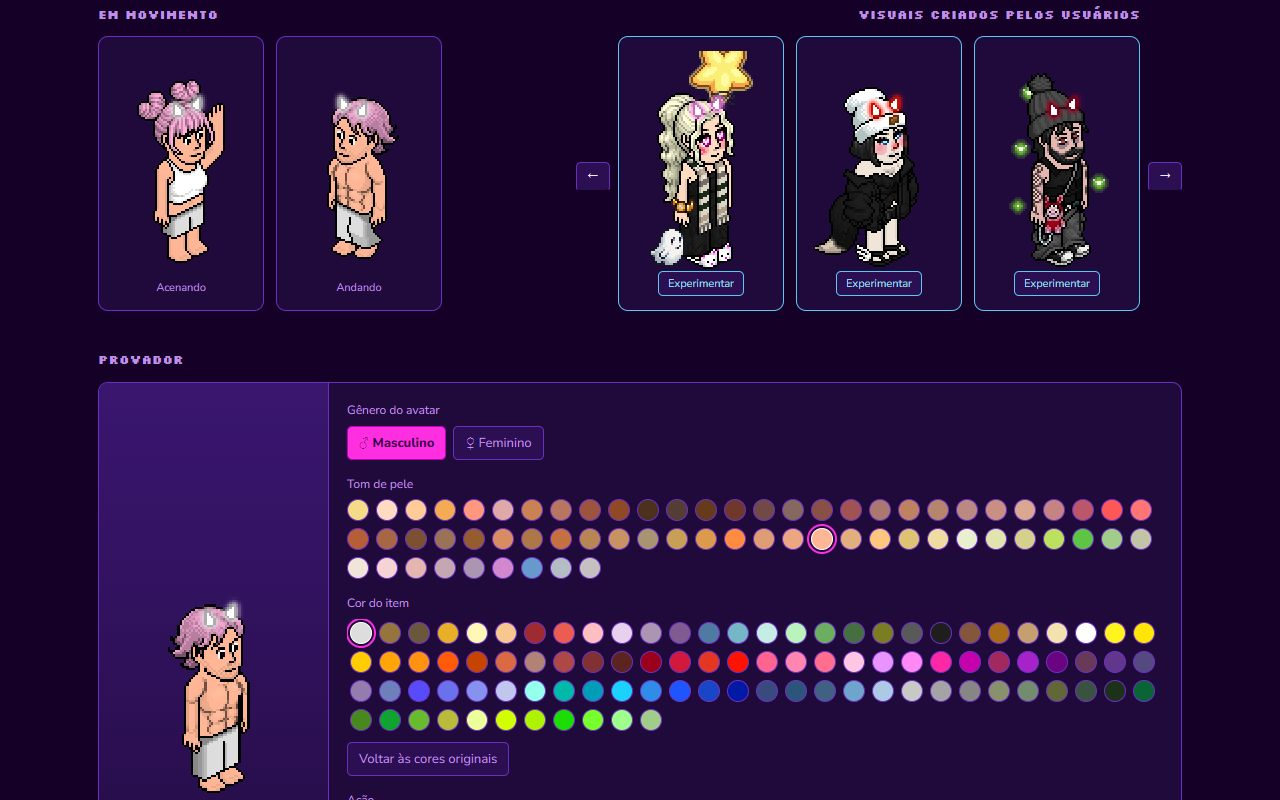
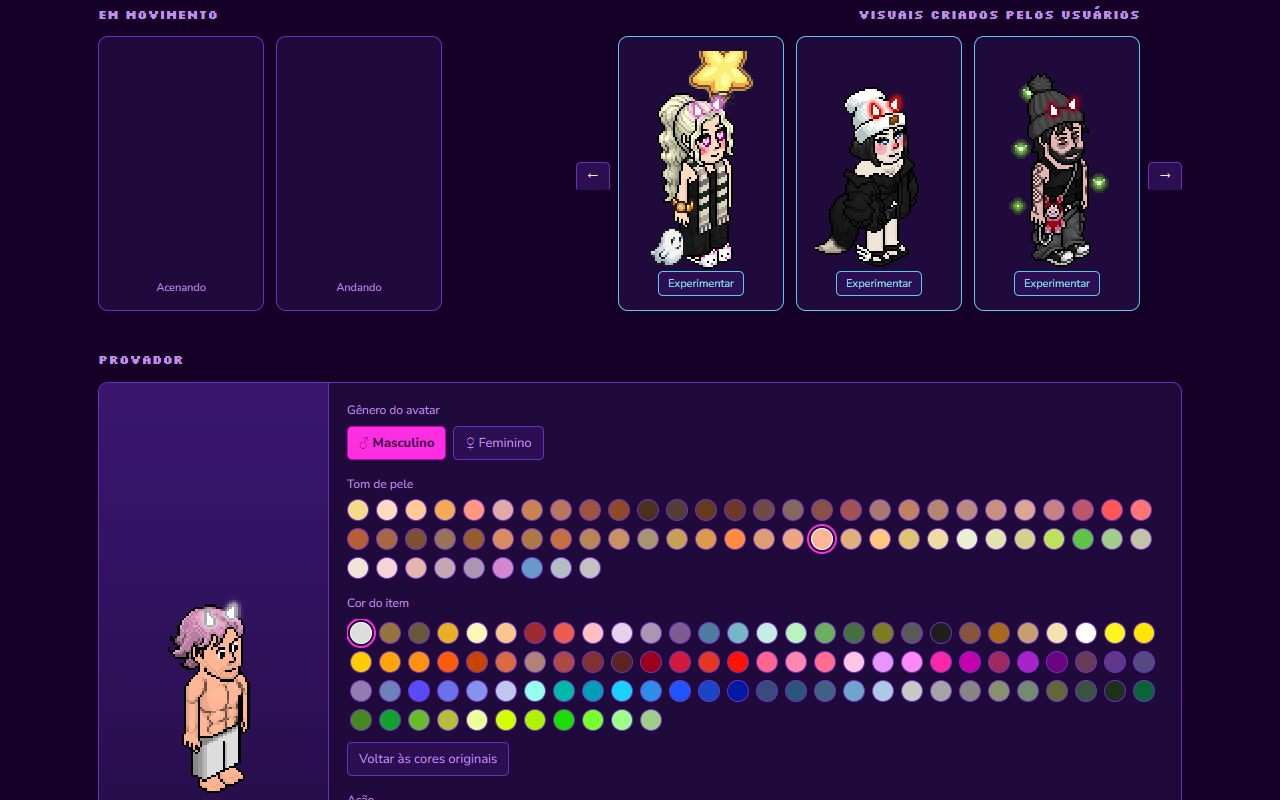
Entrada: chifres piscando no Provador e baloes subindo no Teste o balao, como no site

Changed region(s): [[0.0938, 0.0938, 0.1875, 0.3438], [0.25, 0.125, 0.3125, 0.3438]]

diff --git a/public/index.html b/public/index.html
@@ -135,6 +135,23 @@ a{color:var(--ouro)}
   animation:camaDisco 2.667s steps(32) infinite}
 @keyframes camaDisco{to{background-position:103.2258% 0}}
 @media (prefers-reduced-motion:reduce){.mobi-anim{animation:none}}
+/* Camada do tamanho do print (1280x800) por cima dele, encolhida junto com a imagem (--k, pelo script):
+   as posições abaixo são as mesmas do print. */
+.quadro{overflow:hidden}
+.camada{position:absolute;left:0;top:0;width:1280px;height:800px;transform-origin:0 0;transform:scale(var(--k,1));pointer-events:none}
+.slide .camada img{position:absolute;display:block;width:auto;height:auto;aspect-ratio:auto;object-fit:fill}
+.slide .camada .anim-avatar{width:128px;height:220px}
+/* Balões como no "Teste o balão" do site: um a cada 1,5 s, empurrando os de antes para cima, e somem juntos */
+.balao{opacity:0;animation:6.3s ease-out infinite}
+.b1{animation-name:balao1}.b2{animation-name:balao2}.b3{animation-name:balao3}
+@keyframes balao1{0%{opacity:0;transform:translateY(79px)}5.56%{transform:translateY(66px)}7.94%{opacity:1}
+  23.81%{transform:translateY(66px)}29.37%{transform:translateY(33px)}47.62%{transform:translateY(33px)}53.18%{transform:translateY(0)}
+  71.43%{opacity:1}79.37%,100%{opacity:0;transform:translateY(0)}}
+@keyframes balao2{0%,23.81%{opacity:0;transform:translateY(46px)}29.37%{transform:translateY(33px)}31.75%{opacity:1}
+  47.62%{transform:translateY(33px)}53.18%{transform:translateY(0)}71.43%{opacity:1}79.37%,100%{opacity:0;transform:translateY(0)}}
+@keyframes balao3{0%,47.62%{opacity:0;transform:translateY(13px)}53.18%{transform:translateY(0)}55.56%{opacity:1}
+  71.43%{opacity:1}79.37%,100%{opacity:0;transform:translateY(0)}}
+@media (prefers-reduced-motion:reduce){.balao{animation:none;opacity:1}}
 .slide figcaption{padding:16px 22px 20px;border-top:1px solid var(--linha)}
 .slide figcaption b{display:block;font-family:var(--pixel);font-size:14px;color:var(--ouro);margin-bottom:4px}
 .slide figcaption span{color:var(--texto);font-size:15px}
@@ -218,11 +235,20 @@ a{color:var(--ouro)}
           <figcaption><b>Mais de 1.400 mobis</b><span>Ordene pelos lançamentos, pelo preço ou pelos mais curtidos, e ache qualquer um pela busca.</span></figcaption></figure>
         <figure class="slide"><div class="quadro"><img src="/entrada/mobi-no-quarto.jpg" alt="Cama Disco animada dentro de um quarto" loading="lazy"><span class="mobi-anim" aria-hidden="true"></span></div>
           <figcaption><b>Veja o mobi no quarto</b><span>Tamanho de verdade e até a animação, do jeitinho que fica no Habbo.</span></figcaption></figure>
-        <figure class="slide"><img src="/entrada/provador.jpg" alt="Provador com avatares vestindo o item" loading="lazy">
+        <figure class="slide"><div class="quadro"><img src="/entrada/provador.jpg" alt="Provador com avatares vestindo os Chifres LED" loading="lazy">
+          <div class="camada" aria-hidden="true">
+            <img class="anim-avatar" src="/entrada/provador-acenando.png" alt="" loading="lazy" style="left:117px;top:51px">
+            <img class="anim-avatar" src="/entrada/provador-andando.png" alt="" loading="lazy" style="left:295px;top:51px">
+          </div></div>
           <figcaption><b>Provador</b><span>Experimente qualquer roupa no avatar, troque o tom de pele e as cores, ou use o seu próprio visual pelo nick.</span></figcaption></figure>
         <figure class="slide"><img src="/entrada/editor-de-visuais.jpg" alt="Editor de visuais" loading="lazy">
           <figcaption><b>Editor de Visuais</b><span>Monte combinações com peças NFT e do jogo, salve seus favoritos e veja o que a comunidade criou.</span></figcaption></figure>
-        <figure class="slide"><img src="/entrada/teste-o-balao.jpg" alt="Teste do balão de fala no quarto" loading="lazy">
+        <figure class="slide"><div class="quadro"><img src="/entrada/teste-o-balao.jpg" alt="Teste do balão de fala Origami Azul no quarto" loading="lazy">
+          <div class="camada" aria-hidden="true">
+            <img class="balao b1" src="/entrada/balao-1.png" alt="" loading="lazy" style="left:276px;top:524px">
+            <img class="balao b2" src="/entrada/balao-2.png" alt="" loading="lazy" style="left:272px;top:557px">
+            <img class="balao b3" src="/entrada/balao-3.png" alt="" loading="lazy" style="left:279px;top:590px">
+          </div></div>
           <figcaption><b>Teste o balão</b><span>Escreva uma mensagem e veja como o balão de fala aparece no quarto antes de comprar.</span></figcaption></figure>
       </div>
       <button class="seta esq" type="button" data-seta="-1" aria-label="Tela anterior">‹</button>
@@ -371,8 +397,20 @@ a{color:var(--ouro)}
       b.onclick = (function(n){ return function(){ ir(n); reiniciar(); }; })(i);
       pontos.appendChild(b);
     }
+    // as animações por cima dos prints acompanham o tamanho da imagem (camada de 1280 px)
+    function escalar(){
+      document.querySelectorAll(".quadro").forEach(function(q){ q.style.setProperty("--k", q.clientWidth / 1280); });
+    }
+    escalar();
+    if (window.ResizeObserver) new ResizeObserver(escalar).observe(slides); else addEventListener("resize", escalar);
+    var vista = -1;
     function marcar(){
       for (var i = 0; i < pontos.children.length; i++) pontos.children[i].setAttribute("aria-current", i === atual ? "true" : "false");
+      // os balões começam do primeiro quando a tela deles aparece
+      if (atual !== vista) {
+        vista = atual;
+        slides.children[atual].querySelectorAll(".balao").forEach(function(b){ b.style.animation = "none"; void b.offsetWidth; b.style.animation = ""; });
+      }
     }
     function ir(n){ atual = (n + total) % total; slides.scrollTo({ left: slides.clientWidth * atual }); marcar(); }
     function reiniciar(){
